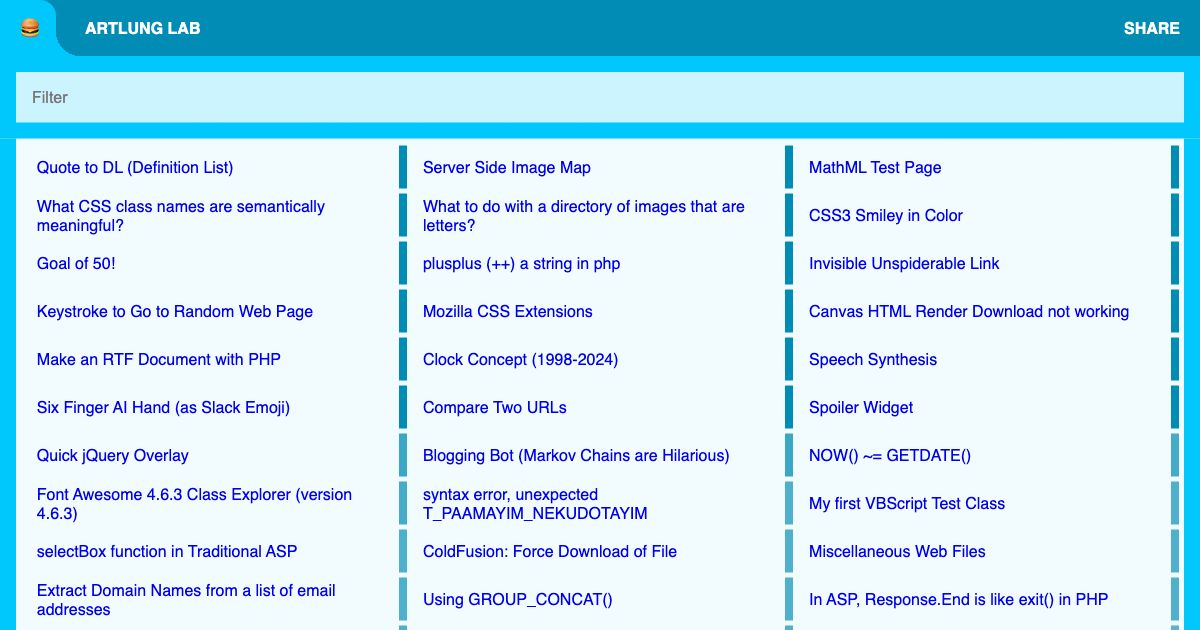
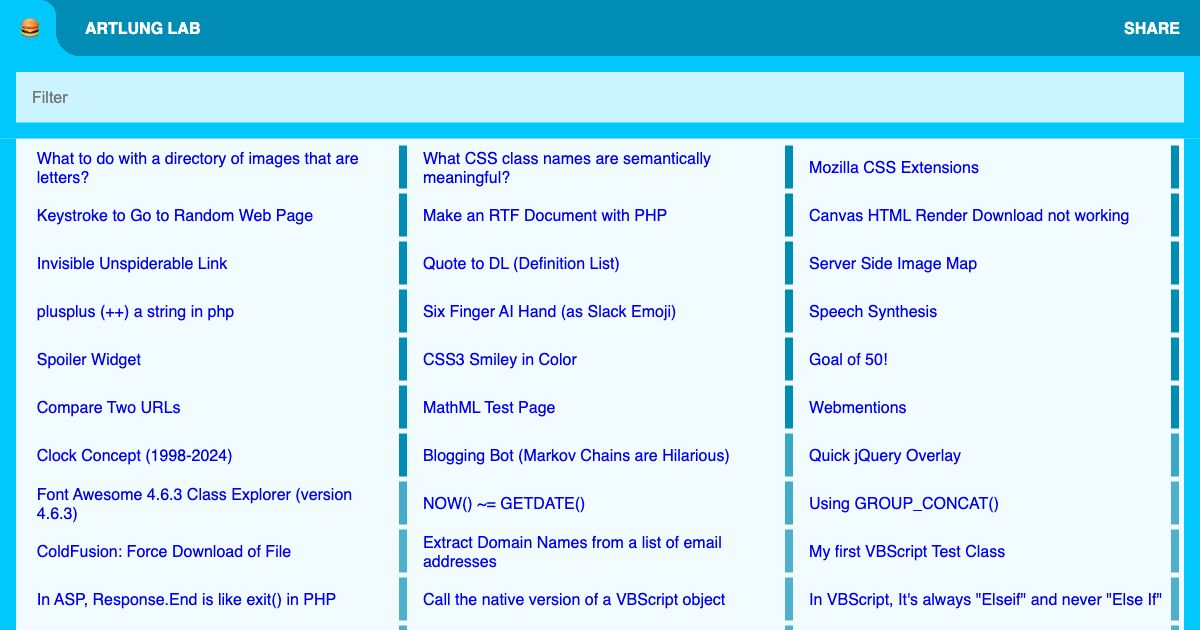
Refinements and disclaimers

diff --git a/web/webmentions/webmentions.css b/web/webmentions/webmentions.css
@@ -1,1 +1,1 @@
-article#content{--target-color: #d7e1ff;--source-color: #e2ffd1;--endpoint-color: #f2d1ff}article#content pre{box-shadow:none}article#content pre{background:rgba(0,0,0,0);font-weight:bold}article#content code,article#content span,article#content em{background-color:var(--local-color, white);color:#333}article#content code.target,article#content span.target,article#content em.target{font-weight:bold;--local-color: var(--target-color)}article#content code.source,article#content span.source,article#content em.source{font-weight:bold;--local-color: var(--source-color)}article#content code.endpoint,article#content span.endpoint,article#content em.endpoint{font-weight:bold;--local-color: var(--endpoint-color)}article#content div.diagram{display:flex;gap:1rem;flex-wrap:wrap}article#content div.diagram div.webmention{border:1.5rem solid var(--local-color, #ccc);background:var(--local-color, #ccc);display:grid;justify-content:center;align-items:center;gap:1rem}article#content div.diagram div.webmention img{width:100%;height:auto;display:block;mix-blend-mode:multiply}article#content div.diagram div.webmention.target{--local-color: var(--target-color)}article#content div.diagram div.webmention.source{--local-color: var(--source-color)}article#content div.diagram div.webmention.endpoint{--local-color: var(--endpoint-color)}
+article#content{--target-color: #d7e1ff;--source-color: #e2ffd1;--endpoint-color: #f2d1ff;padding-bottom:8rem}article#content p{line-height:1.4;max-width:80ch}article#content p code{font-weight:bold}article#content p.long,article#content p.date-attribution{max-width:unset}article#content code{font-size:1rem}article#content pre{box-shadow:none;scrollbar-color:unset}article#content pre{background:rgba(0,0,0,0);font-weight:bold}article#content code,article#content span,article#content em{background-color:var(--local-color, white);color:#333}article#content code.target,article#content span.target,article#content em.target{font-weight:bold;--local-color: var(--target-color)}article#content code.source,article#content span.source,article#content em.source{font-weight:bold;--local-color: var(--source-color)}article#content code.endpoint,article#content span.endpoint,article#content em.endpoint{font-weight:bold;--local-color: var(--endpoint-color)}article#content div.diagram{display:flex;gap:1rem;flex-wrap:wrap;justify-content:center;align-items:center}article#content div.diagram figure.arrow{margin:0;padding:0;--arrow-shadow-color: #ccc;font-weight:bold;font-size:3rem;text-shadow:.2rem .2rem var(--arrow-shadow-color)}article#content div.diagram figure.arrow.endpoint{--arrow-shadow-color: var(--endpoint-color) }article#content div.diagram figure.arrow.source{--arrow-shadow-color: var(--source-color);align-self:baseline}article#content div.diagram figure.arrow.target{--arrow-shadow-color: var(--target-color) }article#content div.diagram:has(figure figcaption) figure{margin-top:40px}article#content div.diagram figure.webmention{margin:0;padding:0;max-width:33vw;border:1.5rem solid var(--local-color, #ccc);background:var(--local-color, #ccc);display:grid;justify-content:center;align-items:center;gap:1rem;position:relative}article#content div.diagram figure.webmention img{width:100%;height:auto;display:block;mix-blend-mode:multiply}article#content div.diagram figure.webmention.target{--local-color: var(--target-color)}article#content div.diagram figure.webmention.target figcaption{top:-40px;left:-40px;position:absolute;transform:rotate(-5deg);font-family:monospace;font-size:1.2rem;color:#000;background:var(--endpoint-color);border-radius:.4rem;max-width:40vw}article#content div.diagram figure.webmention.source{--local-color: var(--source-color)}article#content div.diagram figure.webmention.source figcaption{text-wrap:balance;top:20px;left:-40px;position:absolute;font-size:1.2rem;color:#000;background:#fff;border-radius:.4rem;max-width:40vw;padding:1rem;border:.3rem solid #666}article#content div.diagram figure.webmention.endpoint{--local-color: var(--endpoint-color)}article#content hr{margin:2rem 0;border:0;border-top:1px solid #ccc}

diff --git a/web/webmentions/webmentions.scss b/web/webmentions/webmentions.scss
@@ -1,6 +1,23 @@
+
 article#content {
+
+  p {
+    line-height: 1.4;
+    max-width: 80ch;
+    code {
+      font-weight: bold;
+    }
+    &.long, &.date-attribution {
+      max-width: unset;
+    }
+  }
+  code {
+    font-size: 1rem;
+  }
+
   pre {
     box-shadow: none;
+    scrollbar-color: unset;
   }
     --target-color: #d7e1ff;
     --source-color: #e2ffd1;
@@ -32,13 +49,48 @@ article#content {
     display: flex;
     gap: 1rem;
     flex-wrap: wrap;
-    div.webmention {
+    justify-content: center;
+    align-items: center;
+
+    figure.arrow {
+      margin: 0;
+      padding: 0;
+      --arrow-shadow-color: #ccc;
+      font-weight: bold;
+      font-size: 3rem;
+      text-shadow: 0.2rem 0.2rem var(--arrow-shadow-color);
+      &.endpoint {
+        --arrow-shadow-color: var(--endpoint-color)
+      }
+      &.source {
+        --arrow-shadow-color: var(--source-color);
+        align-self: baseline;
+      }
+        &.target {
+            --arrow-shadow-color: var(--target-color)
+        }
+    }
+    &:has(figure figcaption) {
+      figure {
+        margin-top: 40px;
+      }
+    }
+
+
+    figure.webmention {
+      margin: 0;
+      padding: 0;
+      max-width: 33vw;
       border: 1.5rem solid var(--local-color, #ccc);
       background: var(--local-color, #ccc);
       display: grid;
       justify-content: center;
       align-items: center;
       gap: 1rem;
+      position: relative;
+
+
+
       img {
         width: 100%;
         height: auto;
@@ -49,9 +101,35 @@ article#content {
       &.target {
         --local-color: var(--target-color);
 
+        figcaption {
+          top: -40px;
+          left: -40px;
+          position: absolute;
+          transform: rotate(-5deg);
+          font-family: monospace;
+          font-size: 1.2rem;
+          color: #000;
+          background: var(--endpoint-color);
+          border-radius: 0.4rem;
+          max-width: 40vw;
+        }
+
       }
       &.source {
         --local-color: var(--source-color);
+        figcaption {
+          text-wrap: balance;
+          top: 20px;
+          left: -40px;
+          position: absolute;
+          font-size: 1.2rem;
+          color: #000;
+          background: #fff;
+          border-radius: 0.4rem;
+          max-width: 40vw;
+          padding: 1rem;
+          border: 0.3rem solid #666;
+        }
       }
       &.endpoint {
         --local-color: var(--endpoint-color);
@@ -59,5 +137,23 @@ article#content {
     }
   }
 
+  hr {
+    margin: 2rem 0;
+    // pinline faint
+    border: 0;
+    border-top: 1px solid #ccc;
 
+  }
+
+  padding-bottom: 8rem
 }
+
+
+
+
+
+
+
+
+  
+

diff --git a/web/webmentions/webmentions.php b/web/webmentions/webmentions.php
@@ -9,48 +9,101 @@ $lab->printHeader($metadata['title']);
 <p class="date-attribution">Created December 2024</p>
 
 <h1>Webmentions</h1>
+<p><em>A brief-ish introduction to the idea of a webmention!</em></p>
 
+<hr />
 
 <h2>What is a webmention?</h2>
 
-    <p>Webmentions are a way for one website to tell another website that they have linked to them. Like comments, sort of.</p>
+    <p>Webmentions are a way for one web page to tell another web page that they have linked to them.</p>
 
     <h2>So here's two pages, <span class="source">one</span> linked to <span class="target">the other</span>.</h2>
 
 <div class="diagram">
-    <div class="webmention source">
+    <figure class="webmention source">
         <img src="smorgasborg-artlung-com-douglasadams-Small.jpeg" alt="Screenshot of https://smorgasborg.artlung.com/douglasadams/">
-    </div>
+    </figure>
 
-    <div class="webmention target">
+    <figure class="arrow">→</figure>
+
+    <figure class="webmention target">
         <img src="artlung-com-blog-2016-10-06-audio-packrattitude-Small.jpeg" alt="Screenshot of https://artlung.com/blog/2016/10/06/audio-packrattitude/">
 
-    </div>
+    </figure>
 
 </div>
 
-<p>You could say that the
-    <span class="source">source</span> page has linked to the
-    <span class="target">target</span> page.
+<p>You could say that a
+    <span class="source">source</span> page has linked to a
+    <span class="target">target</span> page. For the <span class="source">source</span> page
+    to tell the <span class="target">target</span> page about the link. It can send a webmention.
+    To do <em>that</em>, it needs to know if there's an <span class="endpoint">endpoint</span> to send the webmention <em>to</em>.
 </p>
 
-<h2>Is there a webmention endpoint?</h2>
+<hr />
+
+<h2>Is there an endpoint?</h2>
 
 <p>If the <span class="target">second page</span> indicates in its source code that it can receive
-    webmentions, it usually will include an HTML <code>&lt;link&gt;</code> tag with an attribute of <code>rel="webmention"</code>. Like this:</p>
+    webmentions, it usually will include an HTML <code>&lt;link&gt;</code> tag with an attribute of <code>rel="webmention"</code>.
+    In this case, the <a href="https://wordpress.org/plugins/webmention/">WordPress Webmention plugin</a> has added it.
+    Some of what this page describes is all automated by content management systems like WordPress.
+</p>
+<p>
+    <strong>BUT!</strong>&mdash;you don't have to run a CMS to receive webmentions.
+    Any plain HTML page can receive a webmention. To let people know you can receive them, you add a <code>&lt;link&gt;</code> tag.
+</p>
+
+    <p><em>For example:</em></p>
+
+    <pre><code class="target">&lt;link rel="webmention" href="<span class="endpoint" contenteditable="true">https://artlung.com/wp-json/webmention/1.0/endpoint</span>" /&gt;</code></pre>
+
+    <p><em>Link tags are meant to be in the <code>&lt;head&gt;</code> of an HTML page. Invisible.
+
+    I usually use Brent Lineberry's <em>Supports Webmentions?</em> bookmarklet. <a href="https://orangegnome.com/posts/2929/supports-webmentions-bookmarklet" title="Supports Webmentions? bookmarklet">Read about it here</a></em></p>
 
 
-<pre><code class="target">&lt;link rel="webmention" href="<span class="endpoint" contenteditable="true">https://artlung.com/wp-json/webmention/1.0/endpoint</span>" /&gt;</code></pre>
 
-<p>In this case, the <a href="https://wordpress.org/plugins/webmention/">WordPress Webmention plugin has added that code to the page</a>.</p>
+    <div class="diagram">
 
-<p><em>I often use Brent Lineberry's <a href="https://orangegnome.com/posts/2929/supports-webmentions-bookmarklet/">Webmentions bookmarklet</a> to check to see if a page can get webmentions.</em></p>
+        <figure class="webmention target">
+            <img src="artlung-com-blog-2016-10-06-audio-packrattitude-Small.jpeg" alt="Screenshot of https://artlung.com/blog/2016/10/06/audio-packrattitude/">
+            <figcaption>&lt;link rel="webmention" href="<span class="endpoint">https://art...</span>"&gt;</figcaption>
+        </figure>
+
+    </div>
 
 
 
-<h2>Send a webmention manually</h2>
 
-<p>So let's say I want to send that webmention. I'll use curl to send it.</p>
+
+    <hr />
+
+<h2>Okay, so how do I send the message?</h2>
+
+    <div class="diagram">
+        <figure class="webmention source">
+            <img src="smorgasborg-artlung-com-douglasadams-Small.jpeg" alt="Screenshot of https://smorgasborg.artlung.com/douglasadams/">
+            <figcaption>Somebody responsible for this page has to send it!</figcaption>
+        </figure>
+
+        <figure class="arrow source">→</figure>
+
+        <figure class="webmention target">
+            <img src="artlung-com-blog-2016-10-06-audio-packrattitude-Small.jpeg" alt="Screenshot of https://artlung.com/blog/2016/10/06/audio-packrattitude/">
+            <figcaption>&lt;link rel="webmention" href="<span class="endpoint">https://art...</span>"&gt;</figcaption>
+        </figure>
+
+    </div>
+
+<hr />
+
+<h2>One way is with "curl"</h2>
+
+<p>Curl is a command line tool to call web pages.
+    "Console" programs can be intimidating. But this one is
+    not so different from a web form. <a href="#skip-to-web-form"><em>...Skip to the web form</em></a>
+</p>
 
 
     <pre><code>curl -i -d "source=<code class="source" contenteditable="true">https://smorgasborg.artlung.com/douglasadams/</code>&target=<code class="target" contenteditable="true">https://artlung.com/blog/2016/10/06/audio-packrattitude/</code>" \
@@ -71,10 +124,14 @@ $lab->printHeader($metadata['title']);
         The final part of the curl command is the url of the site that can receive the webmention.
         GET requests are mostly what we are making when we click links.
     </p>
-        <p>
-        In this case it goes to the endpoint: <code class="endpoint" contenteditable="true">https://artlung.com/wp-json/webmention/1.0/endpoint</code></p>
+        <p class="long">
+        In this case it would transmit to the endpoint: <code class="endpoint" contenteditable="true">https://artlung.com/wp-json/webmention/1.0/endpoint</code></p>
 
-    <h2>curl is another way to send the following HTML form</h2>
+<hr />
+
+    <h2 id="skip-to-web-form">HTML form version of the curl command:</h2>
+
+<p>This form, when submitted, does the same thing, minus the request for detailed headers:</p>
 
     <pre><code>&lt;form action="<code class="endpoint" contenteditable="true">https://artlung.com/wp-json/webmention/1.0/endpoint</code>" method="get"&gt;
     &lt;input type="url" name="source" value="<code class="source" contenteditable="true">https://smorgasborg.artlung.com/douglasadams/</code>"&gt;
@@ -82,15 +139,14 @@ $lab->printHeader($metadata['title']);
     &lt;input type="submit" value="Send Webmention"&gt;
 &lt;/form&gt;</code></pre>
 
-<p><em>Also, you can click and edit the urls in this page if your browser supports the <code>contenteditable</code> attribute.</em></p>
 
 <hr />
 
-<h2>The results</h2>
+<h2>Okay, I'm ready to run the curl command...</h2>
 
 <pre><code>
-&gt;&gt;&gt; curl -i -d "source=<code class="source">https://smorgasborg.artlung.com/douglasadams/</code>&target=<code class="target">https://artlung.com/blog/2016/10/06/audio-packrattitude/</code>" \
-<code class="endpoint">https://artlung.com/wp-json/webmention/1.0/endpoint</code>
+&gt;&gt;&gt; curl -i -d "source=<code class="source" contenteditable="true">https://smorgasborg.artlung.com/douglasadams/</code>&target=<code class="target" contenteditable="true">https://artlung.com/blog/2016/10/06/audio-packrattitude/</code>" \
+<code class="endpoint" contenteditable="true">https://artlung.com/wp-json/webmention/1.0/endpoint</code>
 
 HTTP/2 200
 vary: Accept-Encoding,Cookie
@@ -111,13 +167,38 @@ server: Apache
     "message": "Webmention was successful"
 }</code></pre>
 
+<p>That bit in the code where it says <b><em>"Webmention was successful"</em></b> means it worked!
+
+    The <span class="endpoint">endpoint</span> accepted
+the webmention. It's important to know that the page doesn't have to display the webmention, but they <em>could</em>, or <em>may</em> in the future.
+    That's a decision that the person responsible for the <span class="target">target</span> page makes.
+</p>
+
+<p>
+    Webmentions can communicate <em>more</em> than linking. By adding <a href="https://indieweb.org/microformats">microformats</a> to the <span class="source">source</span> page's link,,
+    <a href="https://indieweb.org/likes">likes</a>,
+    <a href="https://indieweb.org/mentions">mentions</a>,
+    <a href="https://indieweb.org/replies">replies</a> and
+    <a href="https://indieweb.org/reposts">reposts</a> can be sent.
+</p>
+
+<p>
+    Thanks for reading. If you have questions feel free to leave a comment below using the Disqus comment system.
+
+    You could also send an email to <code><a href="mailto:joe@artlung.com">joe@artlung.com</a></code> if you have any questions or suggestions.
+
+</p>
+
 <hr />
 
 <h2>Further Reading</h2>
 
 <ul>
     <li>
-        <a href="https://indieweb.org/Webmention">Webmentions</a> on the <a href="http://indieweb.org">IndieWeb</a> wiki.
+        <a href="https://indieweb.org/Webmention">Webmentions</a> on the <a href="http://indieweb.org">IndieWeb</a> wiki. This page goes into great detail
+
+        on how they work, and how different systems support and send them in an automated fashion.
+
     </li>
     <li>
         <a href="https://webmention.io/">webmention.io</a> is a service that you set up and use to receive webmentions on any page.
@@ -125,13 +206,31 @@ server: Apache
     <li>
         <a href="https://webmention.rocks/">webmention.rocks</a> is a test suite for webmentions.
     </li>
-    <!-- https://www.w3.org/TR/webmention/ -->
     <li>
         <a href="https://www.w3.org/TR/webmention/">W3C Webmention Specification</a>
     </li>
 
+    <li>
+        <a href="https://developer.mozilla.org/en-US/docs/Web/HTML/Element/link">MDN Web Docs: &lt;link&gt;</a>
+    </li>
+
+    <li>
+        <a href="https://curl.se/">curl</a> is a command line tool and library for making HTTP calls.
+    </li>
+
+    <li>
+        <a href="https://en.wikipedia.org/wiki/Webmention">Wikipedia: Webmention</a>
+    </li>
+    <li>
+        <a
+            href="https://indiewebify.me/">IndieWebify.me</a>
+    </li>
+
 </ul>
 
+<h2>Also</h2>
+
+    <p><em>You can edit the example code of the <span class="source">source</span>, <span class="target">target</span>, and <span class="endpoint">endpoint</span> urls in this page if your browser supports the <code>contenteditable</code> attribute.</em></p>
 
 
 

diff --git a/classes/Nav.php b/classes/Nav.php
@@ -27,7 +27,7 @@ class Nav
 
         // yaml is the source of truth, generate this with slugs_and_titles.php do not hand edit this:
 
-        /* START: handled by php generate-nav-value LAST UPDATE 2024-12-18 15:41:58 */
+        /* START: handled by php generate-nav-value LAST UPDATE 2024-12-18 17:50:59 */
         return $slugs_and_titles = array (
         '50states' => 
         array (
@@ -1773,11 +1773,9 @@ class Nav
         'year' => '2024',
         'tags' => 
         array (
-        0 => '',
-        1 => 'currl',
-        2 => 'indieweb',
+        0 => 'curl',
+        1 => 'indieweb',
         ),
-        'og-image-date' => '2024-12-18 15:40:35',
         ),
         'windows-export-file-list' => 
         array (

diff --git a/classes/Lab.php b/classes/Lab.php
@@ -424,7 +424,7 @@ HTML;
 <h2>Comment on this with a <a href="https://indieweb.org/Webmention">webmention</a></h2>
 <form action="https://webmention.io/artlung.com/webmention" method="post">
     <label>
-    If you want to respond to this using <em>your own</em> website, you can do so by entering the URL below.
+    If you want to respond to this using <em>your own</em> website, you can do so by entering the URL below. Webmentions are not displayed at this time but may be in the future.
     </label>
     <input type="url" name="source" placeholder="source" required>
     <input type="hidden" value="{$canonical}">
